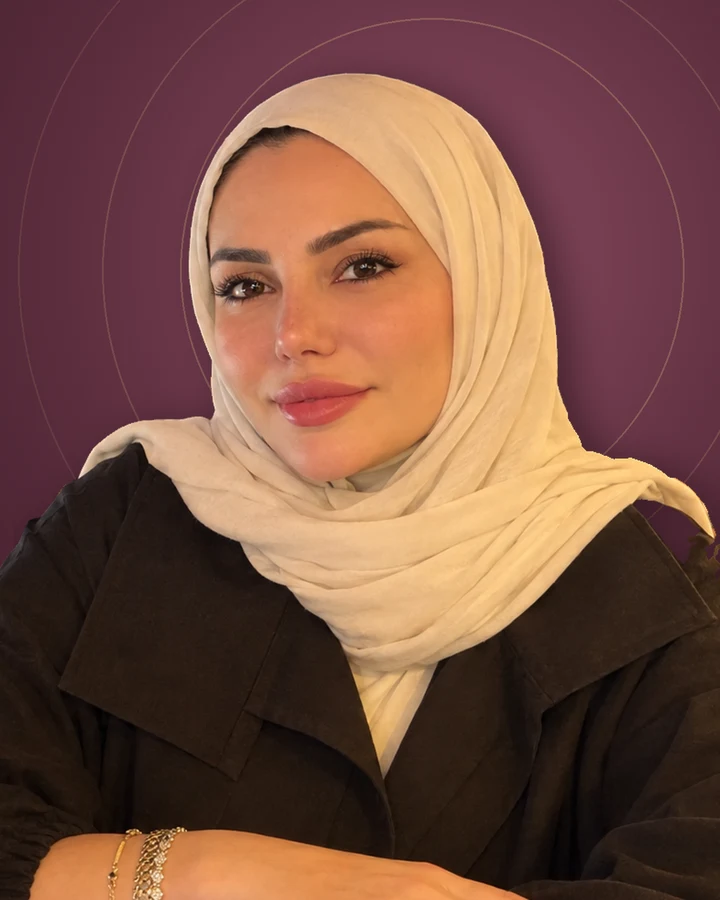
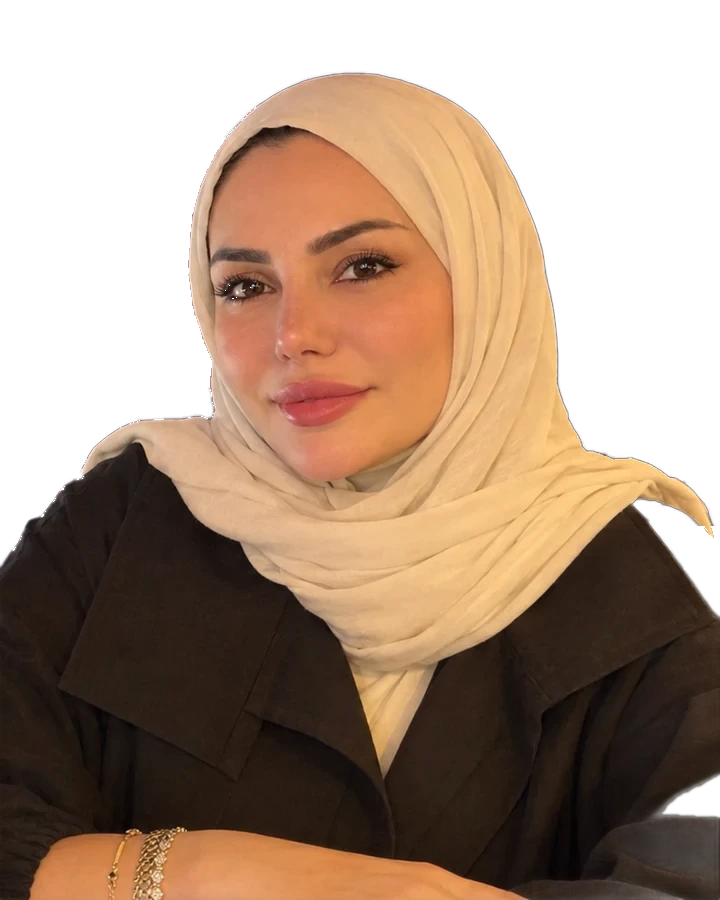
Light blush arch portrait with gold outline

diff --git a/src/assets/styles.css b/src/assets/styles.css
@@ -143,8 +143,11 @@ h1 em,h2 em,h3 em{font-style:normal;color:var(--wine);font-weight:500}
 .pause-btn:hover{color:var(--wine);border-color:var(--wine)}
 .pause-btn .icon{width:12px;height:12px}
 .stage{position:relative;aspect-ratio:1/1.08;max-width:470px;justify-self:center;width:100%}
-.portrait{position:absolute;inset:6% 10% 10% 6%;border-radius:220px 220px 26px 26px;overflow:hidden;background:var(--wine);box-shadow:var(--shadow)}
-.portrait img{width:100%;height:100%;object-fit:cover;object-position:50% 12%}
+.portrait{position:absolute;inset:6% 10% 10% 6%;border-radius:220px 220px 26px 26px;overflow:hidden;background:var(--blush)}
+.portrait-line{position:absolute;inset:2.5% 13% 6.5% 2.5%;border-radius:220px 220px 30px 30px;border:1.5px solid var(--gold-2);pointer-events:none}
+:root{--blush:#EBDCE0}:root[data-theme="dark"]{--blush:#4A3139}
+@media (prefers-color-scheme:dark){:root:not([data-theme="light"]){--blush:#4A3139}}
+.portrait img{width:100%;height:100%;object-fit:cover;object-position:50% 0}
 .portrait .mono{position:absolute;inset:0;display:grid;place-items:center;font-family:var(--serif);font-size:7rem;font-style:italic;color:var(--gold-2);background:radial-gradient(circle at 30% 20%,#7A3D52,#5C2E3E 55%,#3E1C29)}
 .portrait-tag{position:absolute;left:-4%;top:1%;z-index:2;white-space:nowrap;background:var(--surface);border:1px solid var(--line);border-radius:12px;padding:10px 14px;font-family:var(--mono);font-size:.68rem;letter-spacing:.12em;text-transform:uppercase;color:var(--muted);box-shadow:var(--shadow)}
 .portrait-tag b{display:block;font-family:var(--serif);font-size:1.15rem;letter-spacing:0;text-transform:none;color:var(--wine);font-weight:500}
@@ -268,7 +271,7 @@ table.mini tr.drop td{text-decoration:line-through;color:var(--faint)}
 /* about teaser */
 .split{display:grid;grid-template-columns:minmax(0,.8fr) minmax(0,1.2fr);gap:56px;align-items:center}
 @media (max-width:860px){.split{grid-template-columns:1fr}}
-.photo-card{border-radius:22px;overflow:hidden;aspect-ratio:4/5;position:relative;background:var(--wine);max-width:380px}
+.photo-card{border-radius:22px;overflow:hidden;aspect-ratio:4/5;position:relative;background:var(--blush);max-width:380px}
 .photo-card img{width:100%;height:100%;object-fit:cover;object-position:50% 15%}
 .photo-card .mono{position:absolute;inset:0;display:grid;place-items:center;font-family:var(--serif);font-size:6rem;font-style:italic;color:var(--gold-2);background:radial-gradient(circle at 30% 20%,#7A3D52,#5C2E3E 55%,#3E1C29)}
 
